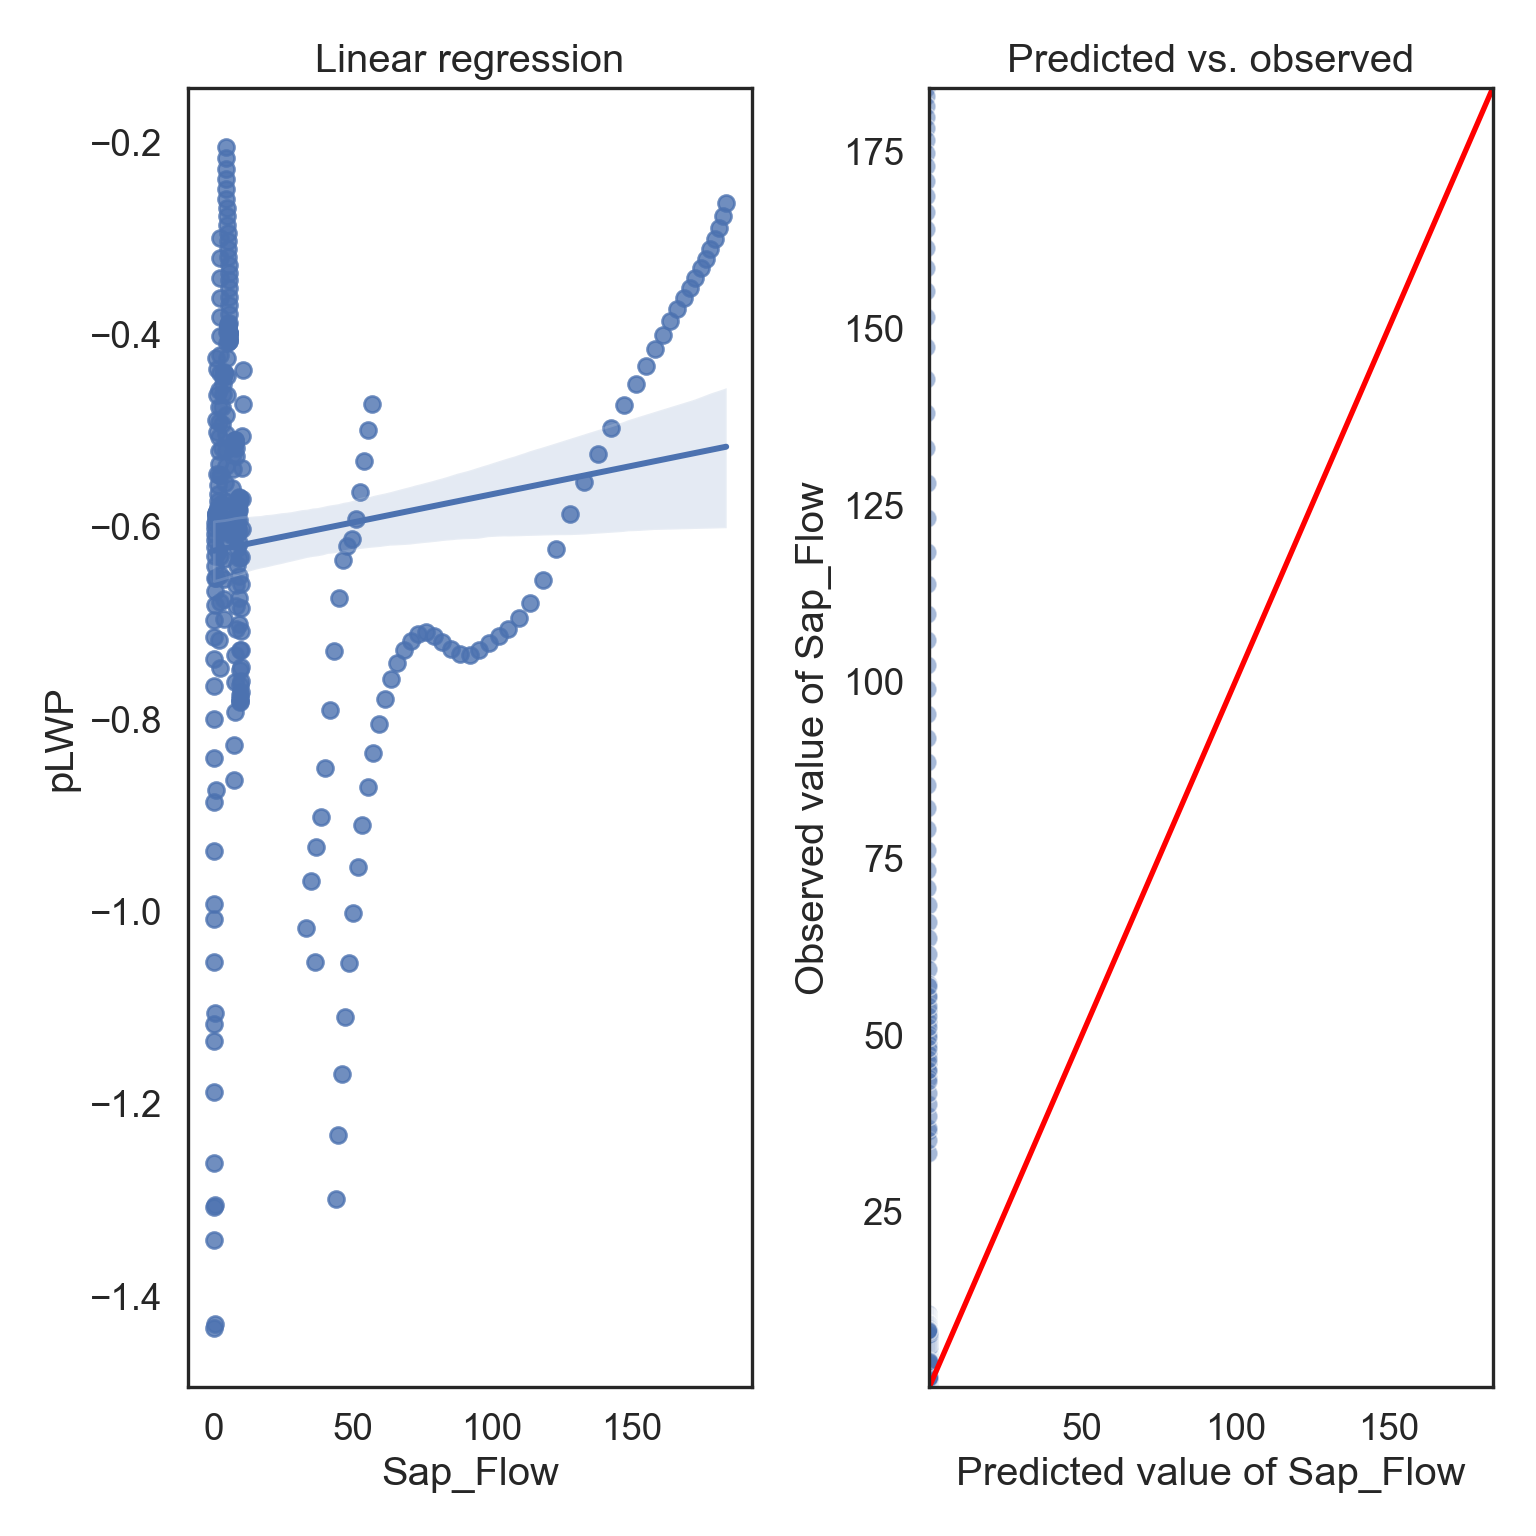
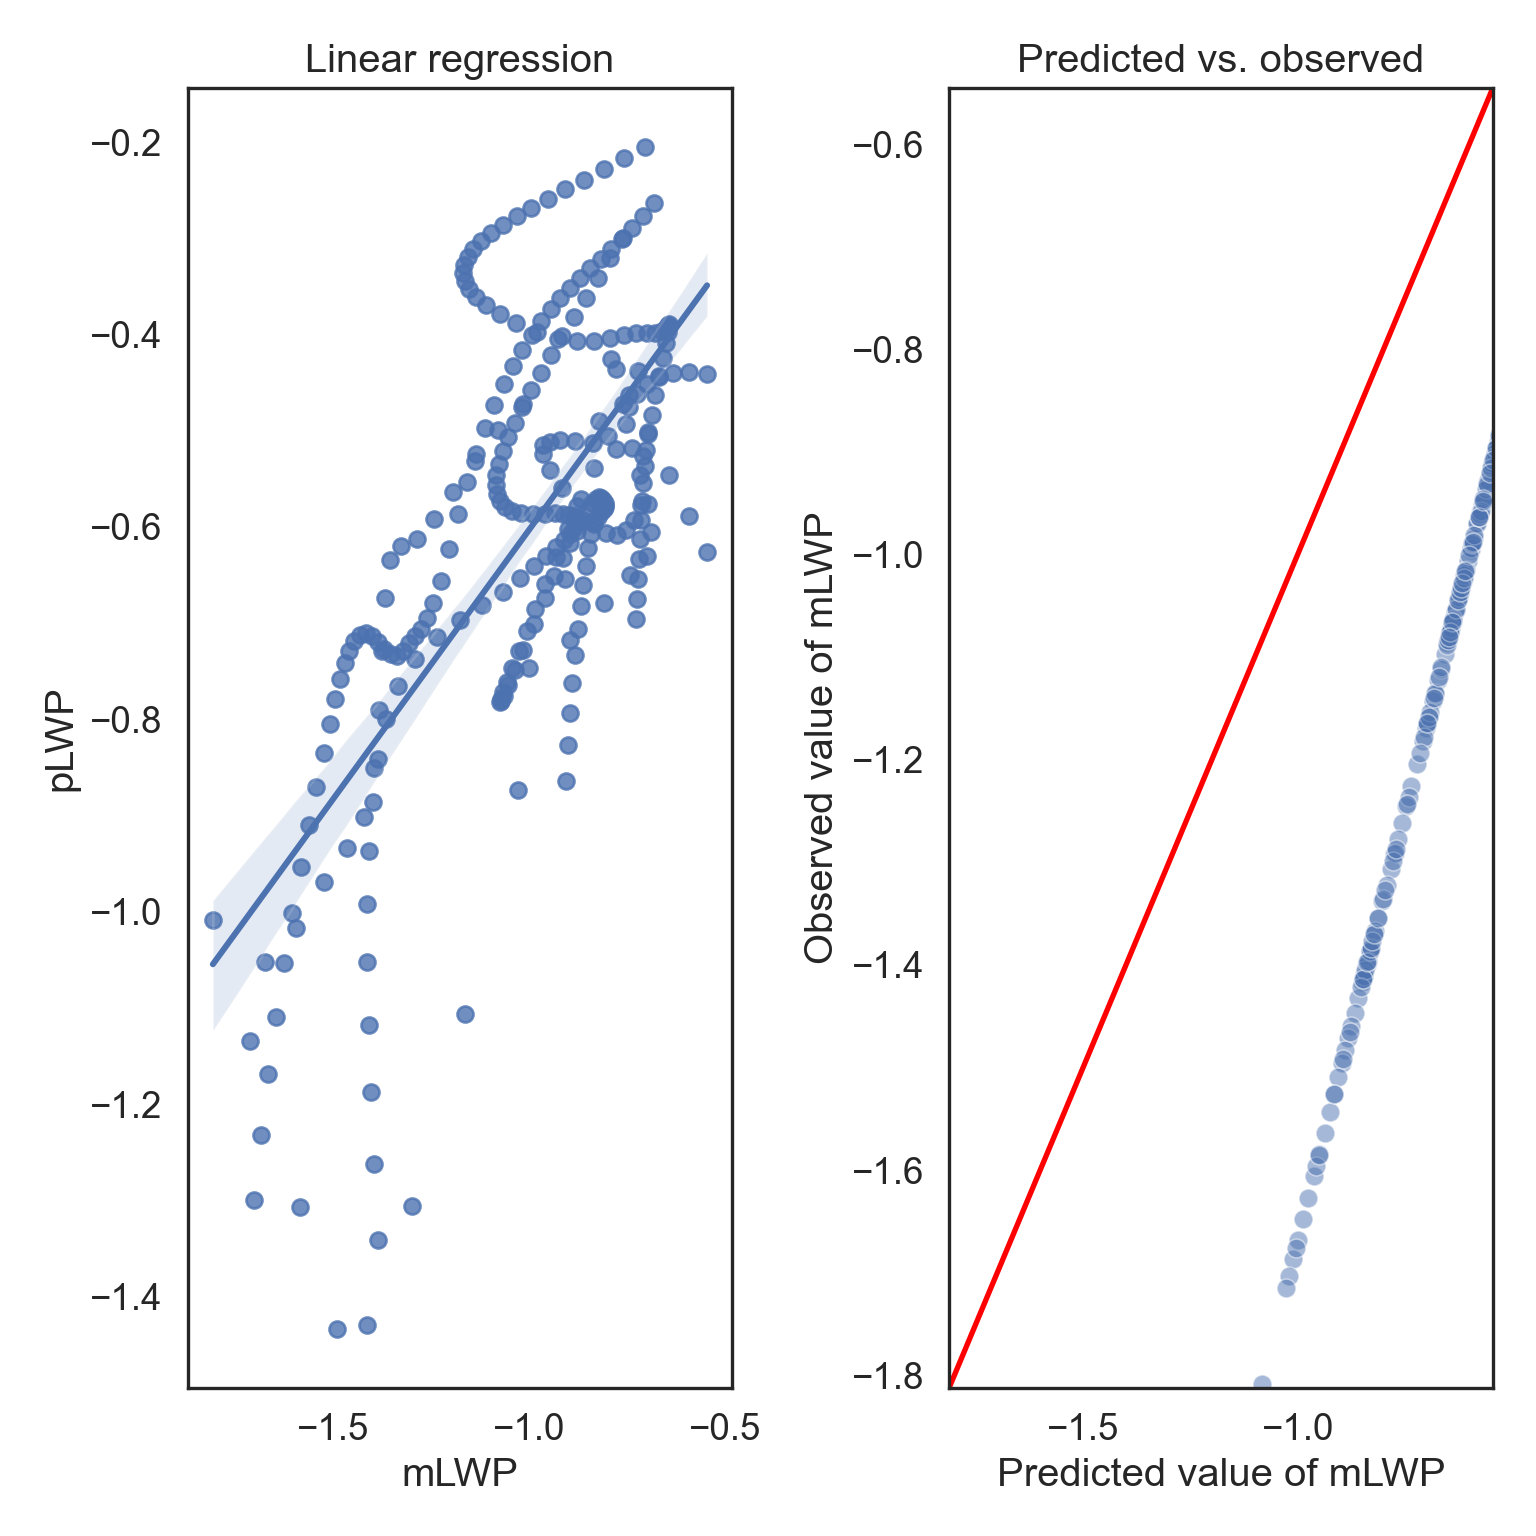
Built site for gh-pages

diff --git a/CorrelateLikeDataMaster.html b/CorrelateLikeDataMaster.html
@@ -455,10 +455,10 @@ mLWP       -0.201195   -0.189330  0.677651  1.000000</code></pre>
 </section>
 <section id="numerical-target-variables-numerical-variable-of-interest" class="level3">
 <h3 class="anchored" data-anchor-id="numerical-target-variables-numerical-variable-of-interest">Numerical Target Variables: Numerical Variable of Interest</h3>
-<p><code>Formula: pLWP (numerical)  ~ Sap_Flow (numerical)</code></p>
+<p><code>Formula: pLWP (numerical)  ~ mLWP (numerical)</code></p>
 <div class="cell">
 <div class="sourceCode cell-code" id="cb9"><pre class="sourceCode python code-with-copy"><code class="sourceCode python"><span id="cb9-1"><a href="#cb9-1" aria-hidden="true" tabindex="-1"></a><span class="co"># The numerical predictor variable </span></span>
-<span id="cb9-2"><a href="#cb9-2" aria-hidden="true" tabindex="-1"></a>X <span class="op">=</span> data[[<span class="st">"Sap_Flow"</span>]]</span>
+<span id="cb9-2"><a href="#cb9-2" aria-hidden="true" tabindex="-1"></a>X <span class="op">=</span> data[[<span class="st">"mLWP"</span>]]</span>
 <span id="cb9-3"><a href="#cb9-3" aria-hidden="true" tabindex="-1"></a></span>
 <span id="cb9-4"><a href="#cb9-4" aria-hidden="true" tabindex="-1"></a><span class="co"># The numerical target variable</span></span>
 <span id="cb9-5"><a href="#cb9-5" aria-hidden="true" tabindex="-1"></a>Y <span class="op">=</span> data[[<span class="st">"pLWP"</span>]]</span>
@@ -476,53 +476,53 @@ mLWP       -0.201195   -0.189330  0.677651  1.000000</code></pre>
 <table class="simpletable">
 <caption>OLS Regression Results</caption>
 <tbody><tr>
-  <th>Dep. Variable:</th>          <td>pLWP</td>       <th>  R-squared (uncentered):</th>      <td>   0.192</td>
+  <th>Dep. Variable:</th>          <td>pLWP</td>       <th>  R-squared (uncentered):</th>      <td>   0.934</td> 
 </tr>
 <tr>
-  <th>Model:</th>                   <td>OLS</td>       <th>  Adj. R-squared (uncentered):</th> <td>   0.189</td>
+  <th>Model:</th>                   <td>OLS</td>       <th>  Adj. R-squared (uncentered):</th> <td>   0.934</td> 
 </tr>
 <tr>
-  <th>Method:</th>             <td>Least Squares</td>  <th>  F-statistic:       </th>          <td>   65.19</td>
+  <th>Method:</th>             <td>Least Squares</td>  <th>  F-statistic:       </th>          <td>   3882.</td> 
 </tr>
 <tr>
-  <th>Date:</th>             <td>Fri, 16 Sep 2022</td> <th>  Prob (F-statistic):</th>          <td>2.14e-14</td>
+  <th>Date:</th>             <td>Fri, 16 Sep 2022</td> <th>  Prob (F-statistic):</th>          <td>3.29e-164</td>
 </tr>
 <tr>
-  <th>Time:</th>                 <td>13:37:41</td>     <th>  Log-Likelihood:    </th>          <td> -243.33</td>
+  <th>Time:</th>                 <td>14:04:26</td>     <th>  Log-Likelihood:    </th>          <td>  102.11</td> 
 </tr>
 <tr>
-  <th>No. Observations:</th>      <td>   276</td>      <th>  AIC:               </th>          <td>   488.7</td>
+  <th>No. Observations:</th>      <td>   276</td>      <th>  AIC:               </th>          <td>  -202.2</td> 
 </tr>
 <tr>
-  <th>Df Residuals:</th>          <td>   275</td>      <th>  BIC:               </th>          <td>   492.3</td>
+  <th>Df Residuals:</th>          <td>   275</td>      <th>  BIC:               </th>          <td>  -198.6</td> 
 </tr>
 <tr>
-  <th>Df Model:</th>              <td>     1</td>      <th>                     </th>              <td> </td>   
+  <th>Df Model:</th>              <td>     1</td>      <th>                     </th>              <td> </td>    
 </tr>
 <tr>
-  <th>Covariance Type:</th>      <td>nonrobust</td>    <th>                     </th>              <td> </td>   
+  <th>Covariance Type:</th>      <td>nonrobust</td>    <th>                     </th>              <td> </td>    
 </tr>
 </tbody></table>
 <table class="simpletable">
 <tbody><tr>
-      <td></td>        <th>coef</th>     <th>std err</th>      <th>t</th>      <th>P&gt;|t|</th>  <th>[0.025</th>    <th>0.975]</th>  
+    <td></td>      <th>coef</th>     <th>std err</th>      <th>t</th>      <th>P&gt;|t|</th>  <th>[0.025</th>    <th>0.975]</th>  
 </tr>
 <tr>
-  <th>Sap_Flow</th> <td>   -0.0053</td> <td>    0.001</td> <td>   -8.074</td> <td> 0.000</td> <td>   -0.007</td> <td>   -0.004</td>
+  <th>mLWP</th> <td>    0.5995</td> <td>    0.010</td> <td>   62.309</td> <td> 0.000</td> <td>    0.581</td> <td>    0.618</td>
 </tr>
 </tbody></table>
 <table class="simpletable">
 <tbody><tr>
-  <th>Omnibus:</th>       <td>57.407</td> <th>  Durbin-Watson:     </th> <td>   0.495</td>
+  <th>Omnibus:</th>       <td> 6.825</td> <th>  Durbin-Watson:     </th> <td>   1.348</td>
 </tr>
 <tr>
-  <th>Prob(Omnibus):</th> <td> 0.000</td> <th>  Jarque-Bera (JB):  </th> <td> 134.440</td>
+  <th>Prob(Omnibus):</th> <td> 0.033</td> <th>  Jarque-Bera (JB):  </th> <td>   8.247</td>
 </tr>
 <tr>
-  <th>Skew:</th>          <td> 0.991</td> <th>  Prob(JB):          </th> <td>6.41e-30</td>
+  <th>Skew:</th>          <td>-0.219</td> <th>  Prob(JB):          </th> <td>  0.0162</td>
 </tr>
 <tr>
-  <th>Kurtosis:</th>      <td> 5.787</td> <th>  Cond. No.          </th> <td>    1.00</td>
+  <th>Kurtosis:</th>      <td> 3.725</td> <th>  Cond. No.          </th> <td>    1.00</td>
 </tr>
 </tbody></table><br><br>Notes:<br>[1] R² is computed without centering (uncentered) since the model does not contain a constant.<br>[2] Standard Errors assume that the covariance matrix of the errors is correctly specified.
 </div>
@@ -536,11 +536,11 @@ mLWP       -0.201195   -0.189330  0.677651  1.000000</code></pre>
 <span id="cb10-6"><a href="#cb10-6" aria-hidden="true" tabindex="-1"></a><span class="co"># Change seaborn plot theme to white</span></span>
 <span id="cb10-7"><a href="#cb10-7" aria-hidden="true" tabindex="-1"></a>sns.set_style(<span class="st">"white"</span>)</span>
 <span id="cb10-8"><a href="#cb10-8" aria-hidden="true" tabindex="-1"></a></span>
-<span id="cb10-9"><a href="#cb10-9" aria-hidden="true" tabindex="-1"></a><span class="co"># Drop NAs from observed Sap_Flow values</span></span>
+<span id="cb10-9"><a href="#cb10-9" aria-hidden="true" tabindex="-1"></a><span class="co"># Drop NAs from observed mLWP values</span></span>
 <span id="cb10-10"><a href="#cb10-10" aria-hidden="true" tabindex="-1"></a>X_Obsv <span class="op">=</span> X.dropna()</span>
 <span id="cb10-11"><a href="#cb10-11" aria-hidden="true" tabindex="-1"></a></span>
 <span id="cb10-12"><a href="#cb10-12" aria-hidden="true" tabindex="-1"></a><span class="co"># Predicted values</span></span>
-<span id="cb10-13"><a href="#cb10-13" aria-hidden="true" tabindex="-1"></a>ObsvVal <span class="op">=</span> X_Obsv.Sap_Flow</span>
+<span id="cb10-13"><a href="#cb10-13" aria-hidden="true" tabindex="-1"></a>ObsvVal <span class="op">=</span> X_Obsv.mLWP</span>
 <span id="cb10-14"><a href="#cb10-14" aria-hidden="true" tabindex="-1"></a></span>
 <span id="cb10-15"><a href="#cb10-15" aria-hidden="true" tabindex="-1"></a>X_max <span class="op">=</span> ObsvVal.<span class="bu">max</span>() <span class="co"># X max</span></span>
 <span id="cb10-16"><a href="#cb10-16" aria-hidden="true" tabindex="-1"></a>X_min <span class="op">=</span> ObsvVal.<span class="bu">min</span>() <span class="co"># X min</span></span>
@@ -557,14 +557,14 @@ mLWP       -0.201195   -0.189330  0.677651  1.000000</code></pre>
 <span id="cb10-27"><a href="#cb10-27" aria-hidden="true" tabindex="-1"></a><span class="co"># Subplots</span></span>
 <span id="cb10-28"><a href="#cb10-28" aria-hidden="true" tabindex="-1"></a>fig, (ax1, ax2) <span class="op">=</span> plt.subplots(ncols <span class="op">=</span> <span class="dv">2</span>, nrows <span class="op">=</span> <span class="dv">1</span>)</span>
 <span id="cb10-29"><a href="#cb10-29" aria-hidden="true" tabindex="-1"></a></span>
-<span id="cb10-30"><a href="#cb10-30" aria-hidden="true" tabindex="-1"></a><span class="co"># Regression plot between Sap_Flow and pLWP</span></span>
-<span id="cb10-31"><a href="#cb10-31" aria-hidden="true" tabindex="-1"></a>sns.regplot(data <span class="op">=</span> data, x <span class="op">=</span> <span class="st">"Sap_Flow"</span>, y <span class="op">=</span> <span class="st">"pLWP"</span>, ax <span class="op">=</span> ax1)</span>
+<span id="cb10-30"><a href="#cb10-30" aria-hidden="true" tabindex="-1"></a><span class="co"># Regression plot between mLWP and pLWP</span></span>
+<span id="cb10-31"><a href="#cb10-31" aria-hidden="true" tabindex="-1"></a>sns.regplot(data <span class="op">=</span> data, x <span class="op">=</span> <span class="st">"mLWP"</span>, y <span class="op">=</span> <span class="st">"pLWP"</span>, ax <span class="op">=</span> ax1)</span>
 <span id="cb10-32"><a href="#cb10-32" aria-hidden="true" tabindex="-1"></a></span>
 <span id="cb10-33"><a href="#cb10-33" aria-hidden="true" tabindex="-1"></a><span class="co"># Set regression plot title</span></span>
 <span id="cb10-34"><a href="#cb10-34" aria-hidden="true" tabindex="-1"></a>ax1.set_title(<span class="st">"Linear regression"</span>)</span>
 <span id="cb10-35"><a href="#cb10-35" aria-hidden="true" tabindex="-1"></a></span>
-<span id="cb10-36"><a href="#cb10-36" aria-hidden="true" tabindex="-1"></a><span class="co"># Scatterplot with linear predicted vs observed pLWP values</span></span>
-<span id="cb10-37"><a href="#cb10-37" aria-hidden="true" tabindex="-1"></a>pred_plot <span class="op">=</span> sns.scatterplot(x <span class="op">=</span> X_Comp.Pred, y <span class="op">=</span> X_Comp.Sap_Flow, alpha <span class="op">=</span> <span class="fl">0.5</span>, s <span class="op">=</span> <span class="dv">50</span>, ax <span class="op">=</span> ax2)</span>
+<span id="cb10-36"><a href="#cb10-36" aria-hidden="true" tabindex="-1"></a><span class="co"># Scatterplot with linear predicted vs observed mLWP values</span></span>
+<span id="cb10-37"><a href="#cb10-37" aria-hidden="true" tabindex="-1"></a>pred_plot <span class="op">=</span> sns.scatterplot(x <span class="op">=</span> X_Comp.Pred, y <span class="op">=</span> X_Comp.mLWP, alpha <span class="op">=</span> <span class="fl">0.5</span>, s <span class="op">=</span> <span class="dv">50</span>, ax <span class="op">=</span> ax2)</span>
 <span id="cb10-38"><a href="#cb10-38" aria-hidden="true" tabindex="-1"></a></span>
 <span id="cb10-39"><a href="#cb10-39" aria-hidden="true" tabindex="-1"></a><span class="co"># Set the length for a line segment</span></span>
 <span id="cb10-40"><a href="#cb10-40" aria-hidden="true" tabindex="-1"></a>X_ref <span class="op">=</span> Y_ref <span class="op">=</span> np.linspace(X_min, X_max, <span class="dv">100</span>)</span>
@@ -576,7 +576,7 @@ mLWP       -0.201195   -0.189330  0.677651  1.000000</code></pre>
 <span id="cb10-46"><a href="#cb10-46" aria-hidden="true" tabindex="-1"></a>pred_plot.set_title(<span class="st">"Predicted vs. observed"</span>)</span>
 <span id="cb10-47"><a href="#cb10-47" aria-hidden="true" tabindex="-1"></a></span>
 <span id="cb10-48"><a href="#cb10-48" aria-hidden="true" tabindex="-1"></a><span class="co"># Set x and y axes titles and limits</span></span>
-<span id="cb10-49"><a href="#cb10-49" aria-hidden="true" tabindex="-1"></a>pred_plot.<span class="bu">set</span>(xlabel <span class="op">=</span> <span class="st">"Predicted value of Sap_Flow"</span>, ylabel <span class="op">=</span> <span class="st">"Observed value of Sap_Flow"</span>,</span>
+<span id="cb10-49"><a href="#cb10-49" aria-hidden="true" tabindex="-1"></a>pred_plot.<span class="bu">set</span>(xlabel <span class="op">=</span> <span class="st">"Predicted value of mLWP"</span>, ylabel <span class="op">=</span> <span class="st">"Observed value of mLWP"</span>,</span>
 <span id="cb10-50"><a href="#cb10-50" aria-hidden="true" tabindex="-1"></a>xlim <span class="op">=</span> (X_min, X_max), ylim <span class="op">=</span> (X_min, X_max))</span>
 <span id="cb10-51"><a href="#cb10-51" aria-hidden="true" tabindex="-1"></a></span>
 <span id="cb10-52"><a href="#cb10-52" aria-hidden="true" tabindex="-1"></a><span class="co"># Tight margins</span></span>

diff --git a/ImputingLikeDataScientist.html b/ImputingLikeDataScientist.html
@@ -695,8 +695,8 @@ dtype: int64</code></pre>
 <div class="cell">
 <div class="sourceCode cell-code" id="cb20"><pre class="sourceCode python code-with-copy"><code class="sourceCode python"><span id="cb20-1"><a href="#cb20-1" aria-hidden="true" tabindex="-1"></a><span class="co"># Winsorizing deals woth outliers, so we don't have to worry about changing to NAs</span></span>
 <span id="cb20-2"><a href="#cb20-2" aria-hidden="true" tabindex="-1"></a></span>
-<span id="cb20-3"><a href="#cb20-3" aria-hidden="true" tabindex="-1"></a><span class="co"># Transform NAs with the median imputation</span></span>
-<span id="cb20-4"><a href="#cb20-4" aria-hidden="true" tabindex="-1"></a>InsMod[<span class="st">'Ins_Cap'</span>] <span class="op">=</span> stats.mstats.winsorize(InsMod[<span class="st">'Insulin'</span>], limits <span class="op">=</span> <span class="fl">0.05</span>)</span></code><button title="Copy to Clipboard" class="code-copy-button"><i class="bi"></i></button></pre></div>
+<span id="cb20-3"><a href="#cb20-3" aria-hidden="true" tabindex="-1"></a><span class="co"># New column for capping imputated data at the lowest and highest 10% of values</span></span>
+<span id="cb20-4"><a href="#cb20-4" aria-hidden="true" tabindex="-1"></a>InsMod[<span class="st">'Ins_Cap'</span>] <span class="op">=</span> stats.mstats.winsorize(InsMod[<span class="st">'Insulin'</span>], limits <span class="op">=</span> [<span class="fl">0.1</span>, <span class="fl">0.1</span>])</span></code><button title="Copy to Clipboard" class="code-copy-button"><i class="bi"></i></button></pre></div>
 </div>
 <div class="cell">
 <div class="sourceCode cell-code" id="cb21"><pre class="sourceCode python code-with-copy"><code class="sourceCode python"><span id="cb21-1"><a href="#cb21-1" aria-hidden="true" tabindex="-1"></a><span class="co"># Visualization of the capping imputation</span></span>
@@ -725,7 +725,7 @@ dtype: int64</code></pre>
 <p><strong>Cons</strong>:</p>
 <ul>
 <li><p>Capping only modifies the smallest and largest values slightly. This is generally not a good idea since it means we’re just modifying data values for the sake of modifications.</p></li>
-<li><p>If no extreme outliers are present, Winsorization may be unnecessary.</p></li>
+<li><p>If no extreme outliers are present, Winsorization may be unnecessary (e.g., set <code>limits = [0.05, 0.05]</code> and see what happens.</p></li>
 </ul>
 </section>
 </section>

diff --git a/intro.html b/intro.html
@@ -280,11 +280,11 @@ dtype: object</code></pre>
 <div class="cell">
 <div class="cell-output cell-output-stdout">
 <pre><code>   Pregnancies  Glucose  BloodPressure  ...  Outcome  Age_group  Outcome1
-0          NaN    148.0            NaN  ...      1.0     Middle       Yes
-1          1.0     85.0           66.0  ...      0.0        NaN        No
-2          8.0    183.0           64.0  ...      NaN     Middle       Yes
+0          6.0    148.0           72.0  ...      1.0     Middle       NaN
+1          NaN     85.0           66.0  ...      0.0     Middle        No
+2          8.0    183.0           64.0  ...      1.0     Middle       NaN
 3          1.0     89.0           66.0  ...      0.0      Young        No
-4          0.0    137.0           40.0  ...      NaN     Middle       Yes
+4          0.0    137.0           40.0  ...      1.0     Middle       Yes
 
 [5 rows x 11 columns]</code></pre>
 </div>

diff --git a/DiagnosingLikeDataDoctor.html b/DiagnosingLikeDataDoctor.html
@@ -529,9 +529,9 @@ dtype: int64</code></pre>
 <div class="cell-output cell-output-stdout">
 <pre><code>       result_date      affil_category  ... test_result          test_source
 count         8262                8262  ...        8262                 8262
-unique         541                   3  ...           3                    2
-top     2020-12-15  Off-Campus Student  ...    Positive  Test All Test Smart
-freq            25                3030  ...        4121                 4583
+unique         541                   4  ...           3                    2
+top     2020-09-23  Off-Campus Student  ...    Positive  Test All Test Smart
+freq            25                3050  ...        4130                 4550
 
 [4 rows x 5 columns]</code></pre>
 </div>
